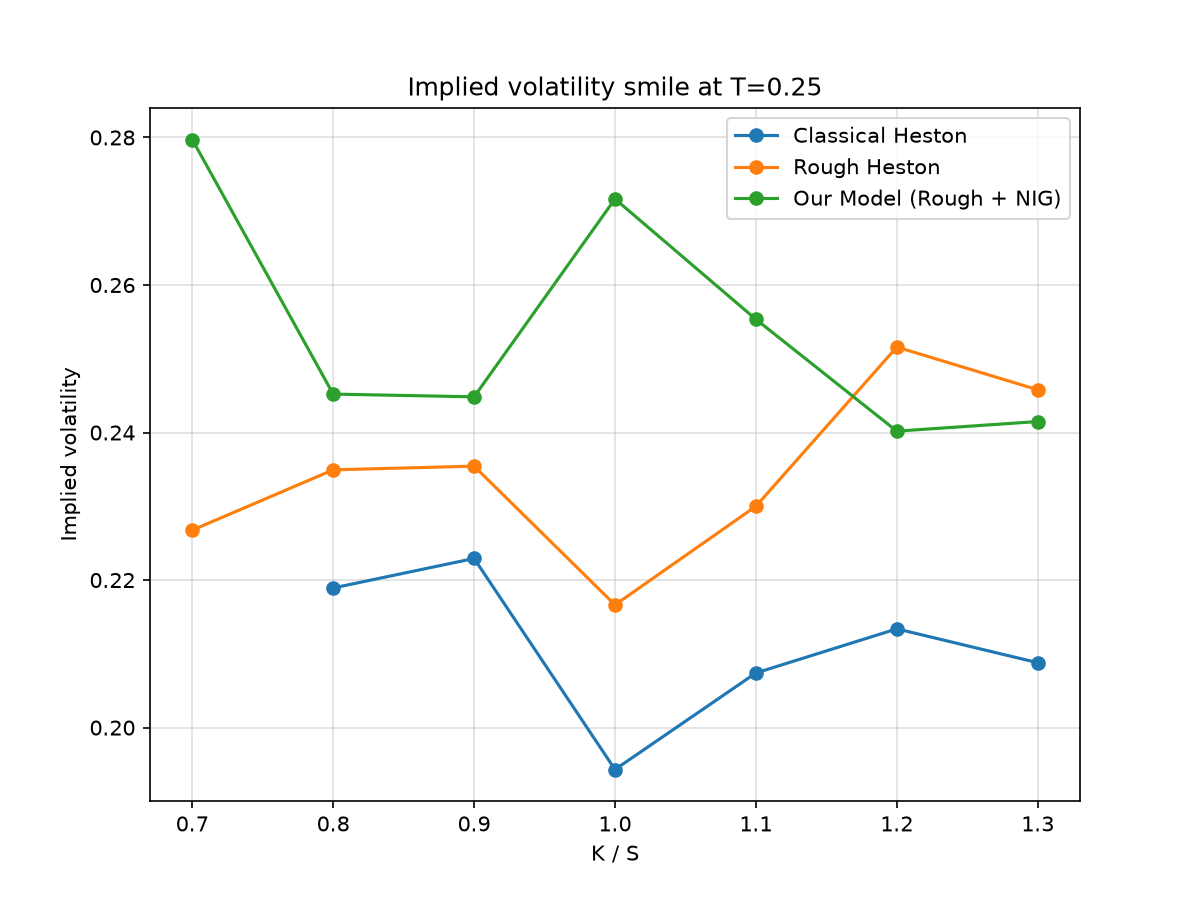
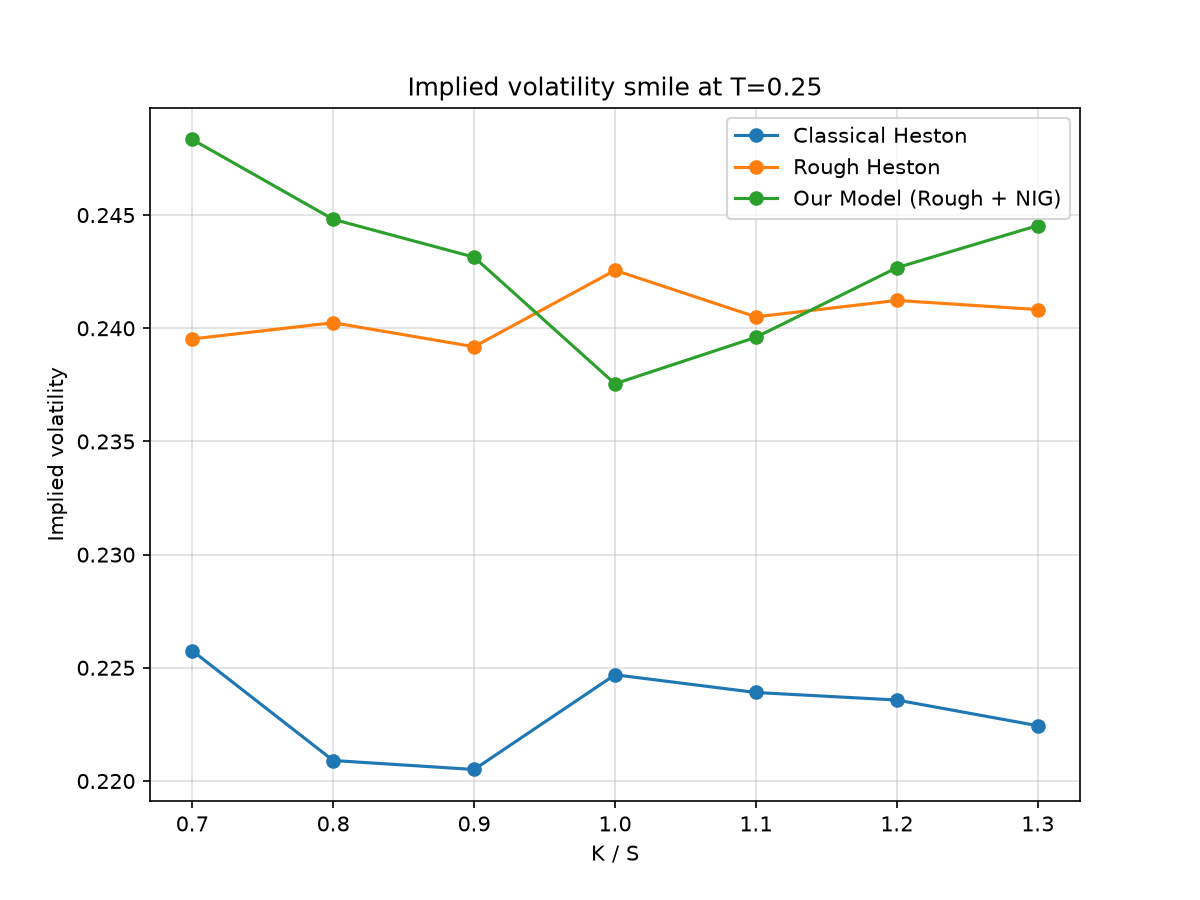
regenerate option prices and IV smile with 50000 paths and fix Levy sim paths

diff --git a/src/stochastic/levy_paths_sim.py b/src/stochastic/levy_paths_sim.py
@@ -1,18 +1,17 @@
 import matplotlib.pyplot as plt
 import numpy as np
-from nig_levy import levy_paths
-from nig_levy import nig_increments
+from src.stochastic.nig_levy import levy_paths, nig_increments
 
 T = 2
 N = 1000
 t = np.linspace(0, T, N+1)
 
-# verify centering 
-dL = nig_increments(10000, 2, 2.0, 0.5)
+# verify centering — mean of increments should be close to 0
+dL = nig_increments(N, t, 2.0, -1.0)
 print(np.mean(dL))
 
 for i in range(5):
-    L = levy_paths(N, T, a = 3.0, b = 1.0)
+    L = levy_paths(N, t, a=3.0, b=-1.0)
     plt.plot(t, L)
 
 plt.title("Sample NIG Lévy Paths")

diff --git a/src/stochastic/option_pricing.py b/src/stochastic/option_pricing.py
@@ -18,7 +18,7 @@ sigma = 0.3       # vol-of-vol
 a = 3.0           # NIG parameter a
 b = -1.0          # NIG parameter b
 w = 0.7           # Volterra parameter (w = H + 0.5 for H=0.2)
-n_paths = 1000
+n_paths = 50000
 n_steps_per_year = 252
 
 moneyness_grid = [0.7, 0.8, 0.9, 1.0, 1.1, 1.2, 1.3]
@@ -50,7 +50,7 @@ def _euler_terminal_prices_vectorized(v_path, T_val, num_paths, seed):
         S = S * np.exp((mu - vn / 2.0) * dt + np.sqrt(vn * dt) * Z)
     return S
 
-# Classical Heston paths (omega = 1, deterministic mean-reverting variance path)
+# Classical Heston paths (w = 1, deterministic mean-reverting variance path)
 def simulate_classical_heston_paths(T_val, num_paths=n_paths, seed=1):
     n_steps = max(int(n_steps_per_year * T_val), 10)
     t = t_gm_pricing(n_steps, w, T_val)
@@ -58,7 +58,7 @@ def simulate_classical_heston_paths(T_val, num_paths=n_paths, seed=1):
     v_path = np.tile(v_single, (num_paths, 1))
     return _euler_terminal_prices_vectorized(v_path, T_val, num_paths, seed)
 
-# Rough Heston paths (omega = 0.7, deterministic Volterra variance path)
+# Rough Heston paths (w = 0.7, deterministic Volterra variance path)
 def simulate_rough_heston_paths(T_val, num_paths=n_paths, seed=2):
     n_steps = max(int(n_steps_per_year * T_val), 10)
     t = t_gm_pricing(n_steps, w, T_val)

diff --git a/src/stochastic/implied_vol_smile.py b/src/stochastic/implied_vol_smile.py
@@ -18,7 +18,7 @@ sigma = 0.3       # vol-of-vol
 a = 3.0           # NIG parameter a
 b = -1.0          # NIG parameter b
 w = 0.7           # Volterra parameter (w = H + 0.5 for H=0.2)
-n_paths = 1000
+n_paths = 50000
 n_steps_per_year = 252
 
 moneyness_grid = [0.7, 0.8, 0.9, 1.0, 1.1, 1.2, 1.3]